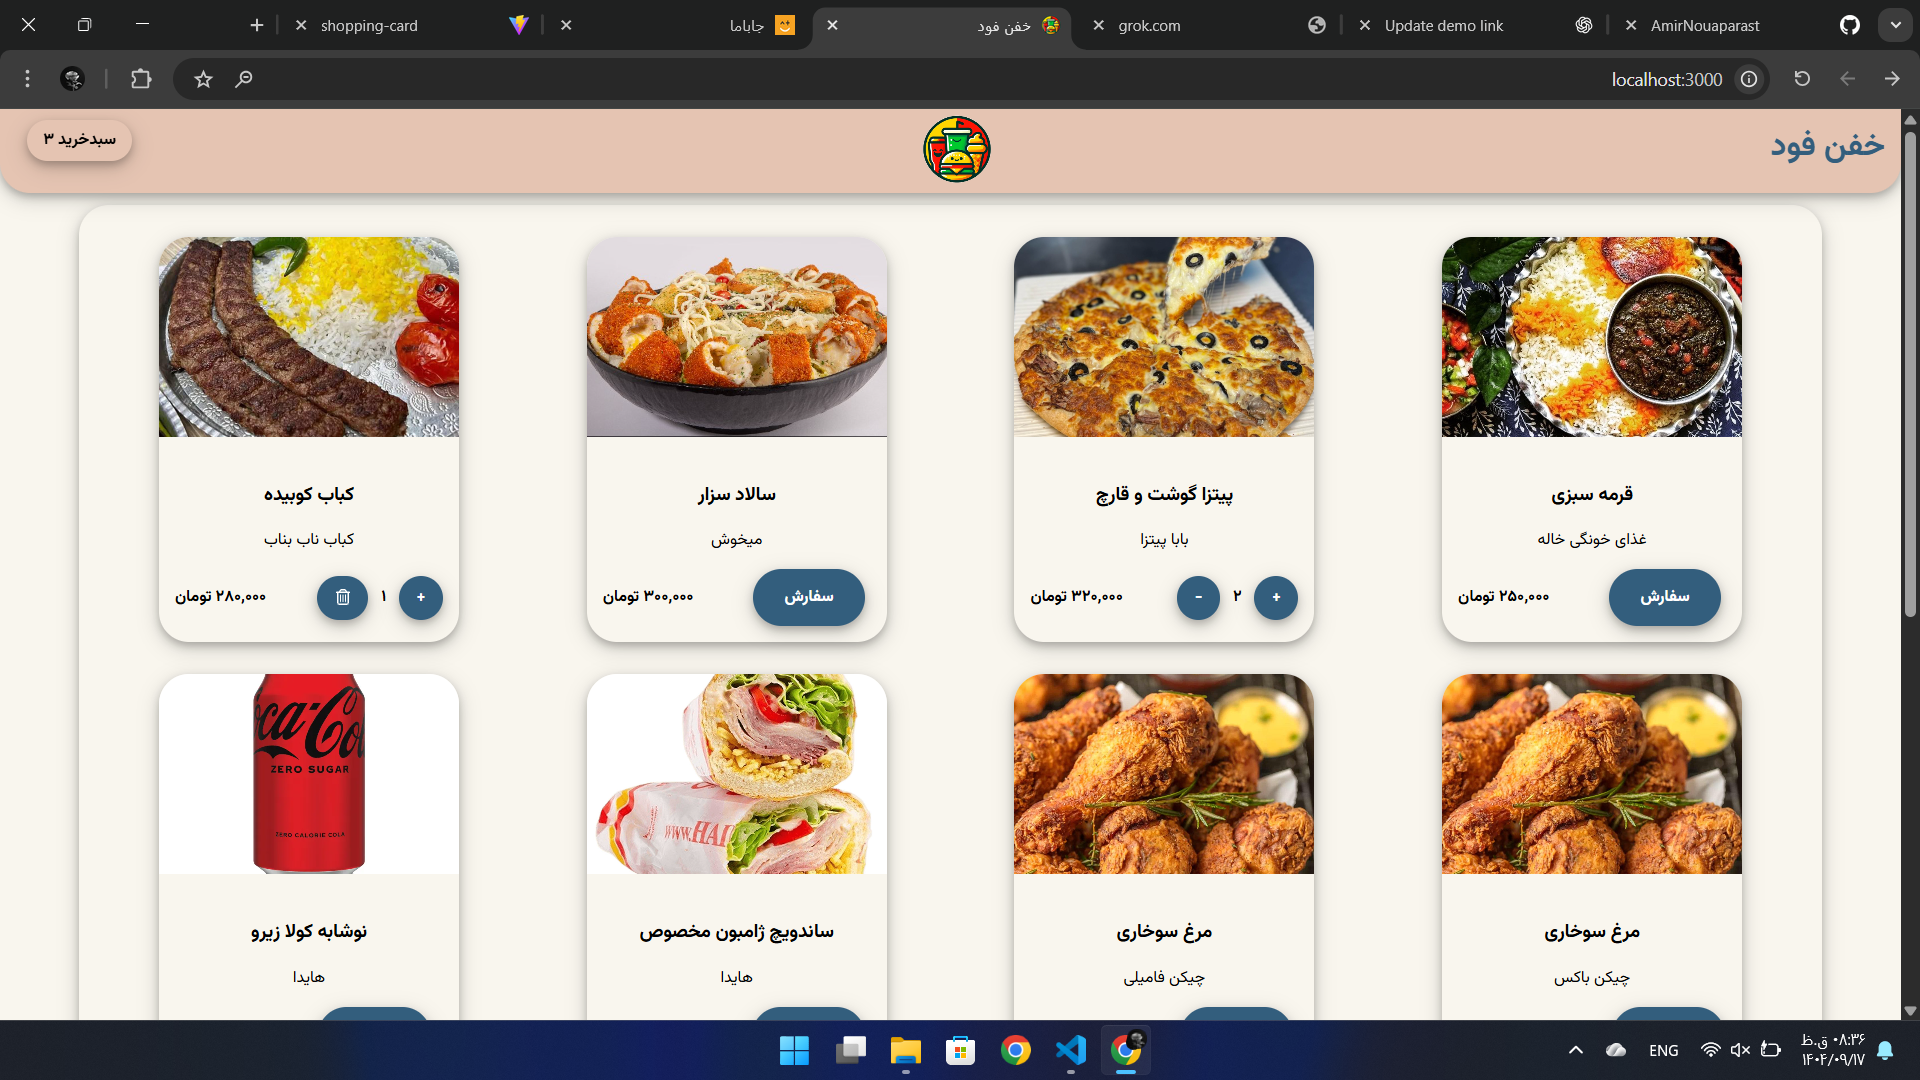
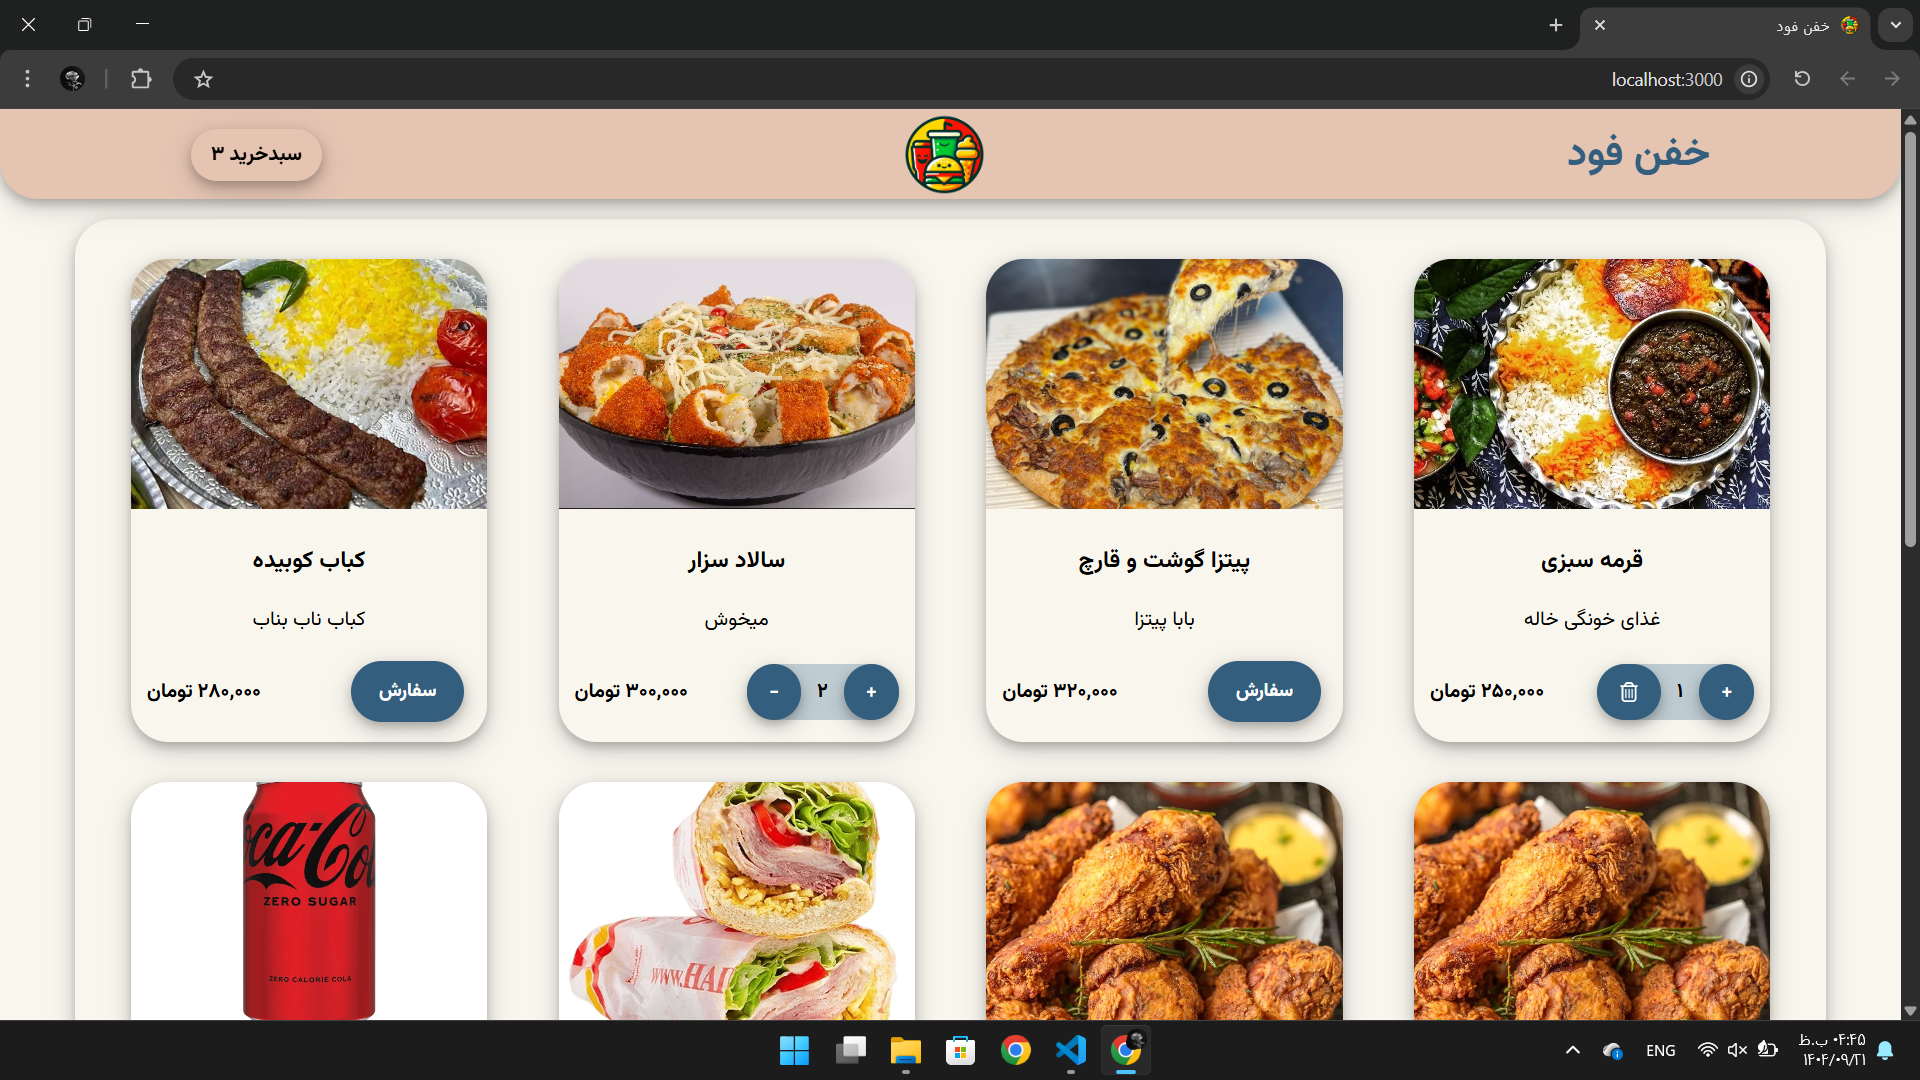
refactor UI and update README for clearer project documentation

diff --git a/src/components/Navbar/Navbar.module.css b/src/components/Navbar/Navbar.module.css
@@ -7,49 +7,34 @@
   border-radius: 0 0 30px 30px;
   box-shadow: 0 4px 8px 0 rgba(0, 0, 0, 0.2), 0 6px 20px 0 rgba(0, 0, 0, 0.19);
   color: var(--main-dark-color);
+  height: 72px;
 }
 
 .navbarContainer {
   display: flex;
-  justify-content: space-between;
-  margin: 0 2rem;
-}
-
-.navbarLinkButton {
-  border-radius: 30px;
-  padding: 0.5rem 1rem;
-  margin-top: 0.8rem;
-  margin-right: 0.5rem;
+  justify-content: space-around;
+  align-items: center;
+  margin: -0.6rem -5rem;
 }
 
 .logo {
-  width: 70px;
-  height: 70px;
-  margin-top: 0.6rem;
-}
-
-.button {
-  margin-top: 1.4rem;
-}
-
-.navbarLinkButton:hover {
-  background-color: #ccc;
-  box-shadow: 2px 1px 1px black;
+  width: 65px;
+  height: 65px;
 }
 
 @media screen and (max-width: 640px) {
   .navbarMain {
-    font-size: 24px;
+    font-size: 25px;
   }
   .logo {
     width: 57px;
     height: 57px;
-    margin-top: 0.4rem;
   }
   .navbarContainer {
-    margin: 0 0.8rem;
+    margin: -0.2rem 0.8rem;
+    justify-content: space-between;
   }
-  .button {
-    margin-top: 0.8rem;
+  .navbar {
+    height: 64px;
   }
 }

diff --git a/src/pages/ShoppingCard/ShoppingCart.module.css b/src/pages/ShoppingCard/ShoppingCart.module.css
@@ -2,35 +2,25 @@
   margin: 0 auto;
   box-shadow: 0 4px 8px 0 rgba(0, 0, 0, 0.2), 0 6px 20px 0 rgba(0, 0, 0, 0.19);
   border-radius: 30px;
-  padding: 1rem;
   display: flex;
-  justify-content: space-between;
   text-align: center;
+  justify-content: space-around;
+  font-size: 0.85rem;
+  font-weight: 500;
 }
 
-@media only screen and (max-width: 800px) {
+@media only screen and (max-width: 700px) {
   .totalCost {
-    width: 90%;
-    font-size: 0.8rem;
-    font-weight: 500;
+    width: 95%;
   }
 }
-@media only screen and (min-width: 600px) {
-  .totalCost {
-    font-size: medium;
-  }
-}
-@media only screen and (min-width: 800px) {
+@media only screen and (min-width: 700px) {
   .totalCost {
     width: 80%;
-    font-size: medium;
-    font-weight: 500;
   }
 }
 @media only screen and (min-width: 1200px) {
   .totalCost {
-    width: 60%;
-    font-size: medium;
-    font-weight: 500;
+    width: 55%;
   }
 }

diff --git a/src/pages/ShoppingCard/components/OrderCard/OrderCard.module.css b/src/pages/ShoppingCard/components/OrderCard/OrderCard.module.css
@@ -1,7 +1,7 @@
 .orderCard {
-  border-radius: 30px;
+  border-radius: 40px;
   box-shadow: 0 4px 8px 0 rgba(0, 0, 0, 0.2), 0 6px 20px 0 rgba(0, 0, 0, 0.19);
-  padding: 1rem;
+  padding: 0.4rem 1rem;
   display: flex;
   justify-content: space-between;
   align-items: center;
@@ -10,7 +10,7 @@
   color: white;
 }
 
-@media only screen and (max-width: 800px) {
+@media only screen and (max-width: 700px) {
   .orderCard {
     width: 90%;
     font-size: small;
@@ -22,19 +22,19 @@
     font-size: medium;
   }
 }
-@media only screen and (min-width: 800px) {
+@media only screen and (min-width: 700px) {
   .orderCard {
-    width: 75%;
+    width: 70%;
   }
 }
 @media only screen and (min-width: 980px) {
   .orderCard {
-    width: 65%;
+    width: 60%;
   }
 }
 @media only screen and (min-width: 1200px) {
   .orderCard {
-    width: 50%;
+    width: 40%;
   }
 }
 

diff --git a/src/pages/Payment/Payment.module.css b/src/pages/Payment/Payment.module.css
@@ -1,13 +1,16 @@
 .container {
   margin: 1rem auto;
   border-radius: 30px;
-  padding: 2rem;
+  padding: 1rem 2rem;
   box-shadow: 1px 1px 20px #ccc;
+  text-align: center;
 }
 .dateContainer {
-  display: grid;
-  grid-template-columns: 20% 20%;
-  column-gap: 70px;
+  display: flex;
+  justify-content: space-around;
+  align-items: center;
+  text-align: center;
+  margin: 0 rem;
 }
 .passwordContainer {
   display: grid;
@@ -15,9 +18,9 @@
   column-gap: 60px;
 }
 .button {
-  height: 70px;
+  height: 60px;
   width: 120%;
-  margin-top: 2.7rem;
+  margin-top: 1.8rem;
 }
 
 @media only screen and (max-width: 650px) {
@@ -53,6 +56,8 @@
 
 .numberInput {
   -moz-appearance: textfield;
+  height: 16px;
+  margin: -0.8rem -4rem 0;
 }
 
 /* Hide the arrows/spinner in WebKit browsers (Chrome, Safari, Edge) */

diff --git a/src/pages/ShoppingCard/ShoppingCard.jsx b/src/pages/ShoppingCard/ShoppingCard.jsx
@@ -55,19 +55,24 @@ function ShoppingCard() {
         </div>
       </section>
 
-      <div>
+      <div
+        style={{
+          margin: "3rem 33%",
+        }}
+      >
         <Link
           to={`/payment?amount=${finalyTotal}`}
-          style={{ textDecoration: "none", color: "inherit" }}
+          style={{
+            textDecoration: "none",
+            color: "inherit",
+          }}
         >
           <Button
             color={"green"}
             fullWidthOnMobile
             style={{
-              padding: "1rem 2rem",
-              marginTop: "2rem",
-              display: "block",
-              width: "30%",
+              padding: "0.8rem 0",
+              width: "100%",
             }}
             type={"button"}
           >

diff --git a/src/pages/Home/Home.module.css b/src/pages/Home/Home.module.css
@@ -1,22 +1,22 @@
 .foodCardList {
   display: grid;
 }
-@media only screen and (max-width: 750px) {
+@media only screen and (max-width: 720px) {
   .foodCardList {
     grid-template-columns: auto;
   }
 }
-@media only screen and (min-width: 750px) {
+@media only screen and (min-width: 720px) {
   .foodCardList {
     grid-template-columns: auto auto;
   }
 }
-@media only screen and (min-width: 1200px) {
+@media only screen and (min-width: 1100px) {
   .foodCardList {
     grid-template-columns: auto auto auto;
   }
 }
-@media only screen and (min-width: 1600px) {
+@media only screen and (min-width: 1400px) {
   .foodCardList {
     grid-template-columns: auto auto auto auto;
   }

diff --git a/src/components/Footer/Footer.module.css b/src/components/Footer/Footer.module.css
@@ -1,5 +1,5 @@
 .footer {
-  height: 170px;
+  height: 130px;
   width: 100%;
   border-radius: 30px 30px 0 0;
   background-color: var(--main-primary-color);
@@ -8,20 +8,25 @@
 }
 
 .footerContainer {
-  padding: 1rem;
+  margin: 0 2rem;
   display: flex;
   justify-content: space-between;
+  align-items: center;
 }
 
 .image {
-  margin-left: 2rem;
-  width: 140px;
-  height: 140px;
+  margin-top: 0.3rem;
+  width: 120px;
+  height: 120px;
 }
 
 @media only screen and (max-width: 600px) {
   .image {
-    width: 100px;
-    height: 100px;
+    width: 90px;
+    height: 90px;
+  }
+  .footer {
+  height: 110px;
+  font-size: 14px;
   }
 }

diff --git a/src/components/FoodCard/FoodCard.jsx b/src/components/FoodCard/FoodCard.jsx
@@ -18,16 +18,10 @@ export default function FoodCard({ id, img, name, restaurant, price }) {
       <div className={styles.content}>
         <h3>{name}</h3>
         <p>{restaurant}</p>
-        <div
-          style={{
-            display: "flex",
-            justifyContent: "space-between",
-            alignItems: "center",
-          }}
-        >
+        <div className={styles.order}>
           {count === 0 ? (
             <Button
-              style={{ padding: "1rem 2rem", marginLeft: "3.7rem" }}
+              className={styles.orderButton}
               onClick={() => addToCart(id)}
             >
               سفارش

diff --git a/src/components/FoodCard/FoodCard.module.css b/src/components/FoodCard/FoodCard.module.css
@@ -1,7 +1,7 @@
 .foodCardContainer {
   box-shadow: 0 4px 8px 0 rgba(0, 0, 0, 0.2), 0 6px 20px 0 rgba(0, 0, 0, 0.19);
   border-radius: 30px;
-  width: 300px;
+  width: 285px;
 }
 
 .image {
@@ -13,12 +13,19 @@
 }
 
 .content {
-  padding: 1rem;
+  padding: 0 0.8rem 0.7rem;
   text-align: center;
 }
 
-.actionAndPrice {
-  width: 100%;
+.order{
   display: flex;
   justify-content: space-between;
+  align-items: center;
+}
+
+.orderButton{
+   padding: 0.8rem 1.4rem;
+    margin-left: 4.5rem;
+    font-size: 15px;
+
 }

diff --git a/src/components/Navbar/Navbar.jsx b/src/components/Navbar/Navbar.jsx
@@ -21,7 +21,7 @@ function Navbar() {
         <img src={logo} alt="logo" className={styles.logo} />
         <div>
           <Link to="/shopping-card">
-            <Button size="small" variant="outlined" className={styles.button}>
+            <Button size="small" variant="outlined">
               سبدخرید {count > 0 && count}
             </Button>
           </Link>

diff --git a/src/pages/Payment/Payment.jsx b/src/pages/Payment/Payment.jsx
@@ -79,9 +79,9 @@ function Payment() {
 
   return (
     <form className={styles.container} onSubmit={formSubmitHandler}>
-      <h1 style={{ textAlign: "center" }}>
+      <h2 style={{ textAlign: "center", margin: "0 0 2rem" }}>
         مبلغ قابل پرداخت : {formatMoney(amount)}
-      </h1>
+      </h2>
 
       <Input
         label={"شماره کارت"}

diff --git a/src/components/Main/Main.module.css b/src/components/Main/Main.module.css
@@ -1,8 +1,14 @@
 .main {
-  margin: 6rem auto 0;
+  margin: 5rem auto 0 auto;
   width: 90%;
   min-height: 70vh;
   border-radius: 30px;
   box-shadow: 0 4px 8px 0 rgba(0, 0, 0, 0.2), 0 6px 20px 0 rgba(0, 0, 0, 0.19);
   padding: 1rem;
+}
+
+@media screen and (min-width: 640px) {
+  .main {
+    margin: 5.5rem auto 0 auto;
+  }
 }
